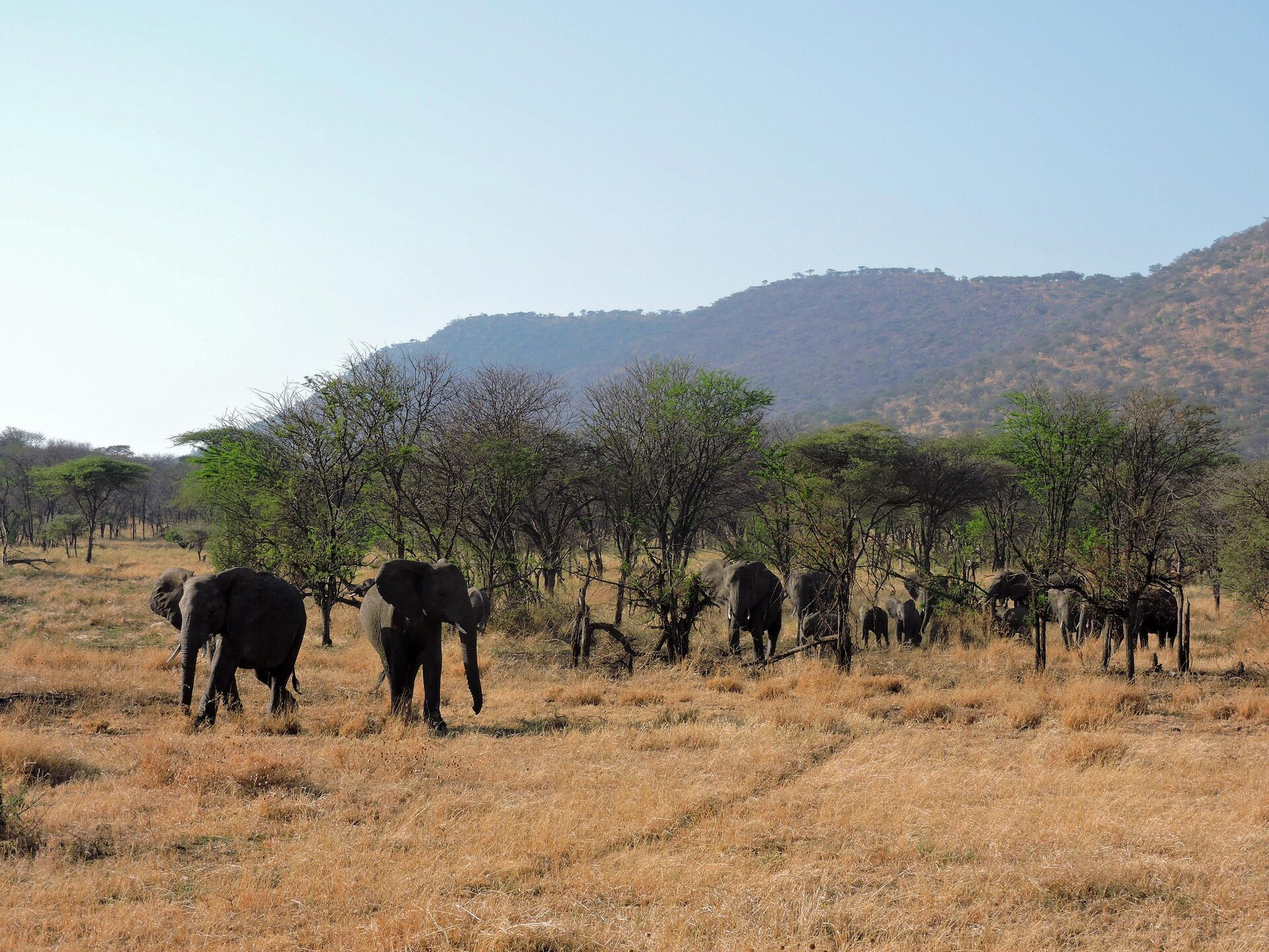
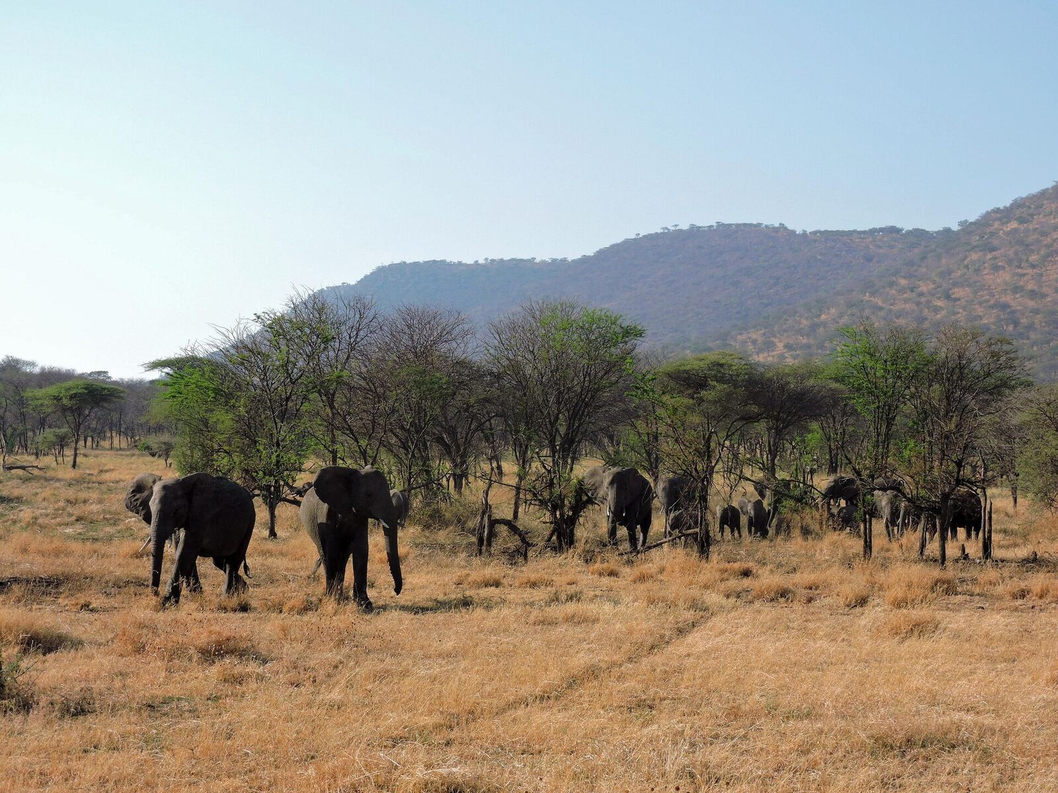
Launch prep: sitemap, robots, 404 page, structured data, lighter images
- sitemap.xml + robots.txt for search indexing
- TravelAgency JSON-LD on the homepage (telephone is a marked placeholder)
- Glass-themed 404 page ('this road doesn't exist')
- savanna.jpg 685K->412K, dest-amboseli.jpg 408K->130K; coast-aerial and
  route-arrival left alone — already optimally encoded

diff --git a/404.html b/404.html
@@ -1,0 +1,51 @@
+<!DOCTYPE html>
+<html lang="en">
+<head>
+  <meta charset="UTF-8">
+  <meta name="viewport" content="width=device-width, initial-scale=1.0">
+  <title>Page not found — Almado Safaris Kenya</title>
+  <meta name="robots" content="noindex">
+  <link rel="icon" type="image/png" href="assets/images/favicon.png">
+  <link rel="preconnect" href="https://fonts.googleapis.com">
+  <link rel="preconnect" href="https://fonts.gstatic.com" crossorigin>
+  <link href="https://fonts.googleapis.com/css2?family=Fraunces:opsz,wght@9..144,400;9..144,500;9..144,600;9..144,700&family=Inter:wght@400;500;600;700&display=swap" rel="stylesheet">
+  <link rel="stylesheet" href="css/styles.css?v=26">
+  <link rel="stylesheet" href="css/glass.css?v=26">
+</head>
+<body class="glass">
+  <header>
+    <div class="wrap nav">
+      <a href="index.html" class="brand">
+        <span class="badge"><img src="assets/images/emblem.png" alt="Almado Safaris Kenya logo"></span>
+        <span class="txt">
+          <b>Almado Safaris Kenya</b>
+          <span>Almado Support Enterprise</span>
+        </span>
+      </a>
+      <nav class="nav-links">
+        <a href="services.html">Services</a>
+        <a href="safaris.html">Safaris</a>
+        <a href="fleet.html">Fleet</a>
+        <a href="about.html">About</a>
+        <a href="contact.html">Contact</a>
+        <a href="contact.html" class="nav-cta">Request a quote</a>
+      </nav>
+      <button class="menu-btn" aria-label="Menu" aria-expanded="false">&#9776;</button>
+    </div>
+  </header>
+
+  <section class="page-hero"><div class="horizon" aria-hidden="true"><div class="sun"></div></div>
+    <div class="wrap page-hero-inner" style="text-align:center;max-width:640px">
+      <span class="eyebrow" style="color:var(--gold)">404 — Off the map</span>
+      <h1>Looks like this road doesn't exist.</h1>
+      <p>Even our best driver-guides can't find this page. Let's get you back on the main route.</p>
+      <div style="display:flex;gap:14px;flex-wrap:wrap;justify-content:center;margin-top:26px">
+        <a class="btn btn-gold" href="index.html">Back to home</a>
+        <a class="btn btn-ghost" href="services.html">See our services</a>
+      </div>
+    </div>
+  </section>
+
+  <script src="js/main.js"></script>
+</body>
+</html>

diff --git a/index.html b/index.html
@@ -11,6 +11,32 @@
   <meta property="og:url" content="https://almadosafariskenya.com/">
   <meta property="og:image" content="https://almadosafariskenya.com/assets/images/hero.jpg">
   <meta name="twitter:card" content="summary_large_image">
+  <!-- PLACEHOLDER: fill "telephone" with the real number before launch -->
+  <script type="application/ld+json">
+  {
+    "@context": "https://schema.org",
+    "@type": "TravelAgency",
+    "name": "Almado Safaris Kenya",
+    "alternateName": "Almado Support Enterprise",
+    "url": "https://almadosafariskenya.com/",
+    "image": "https://almadosafariskenya.com/assets/images/fleet-safari-van.jpg",
+    "logo": "https://almadosafariskenya.com/assets/images/logo.png",
+    "telephone": "+254 7XX XXX XXX",
+    "address": {
+      "@type": "PostalAddress",
+      "addressLocality": "Nairobi",
+      "addressCountry": "KE"
+    },
+    "areaServed": "Kenya",
+    "description": "Airport transfers, safari tours, corporate transport, and car hire across Kenya.",
+    "makesOffer": [
+      {"@type": "Offer", "itemOffered": {"@type": "Service", "name": "Airport Transfers"}},
+      {"@type": "Offer", "itemOffered": {"@type": "Service", "name": "Safari Tours"}},
+      {"@type": "Offer", "itemOffered": {"@type": "Service", "name": "Corporate Transport"}},
+      {"@type": "Offer", "itemOffered": {"@type": "Service", "name": "Car Hire"}}
+    ]
+  }
+  </script>
   <link rel="icon" type="image/png" href="assets/images/favicon.png">
   <link rel="preconnect" href="https://fonts.googleapis.com">
   <link rel="preconnect" href="https://fonts.gstatic.com" crossorigin>
